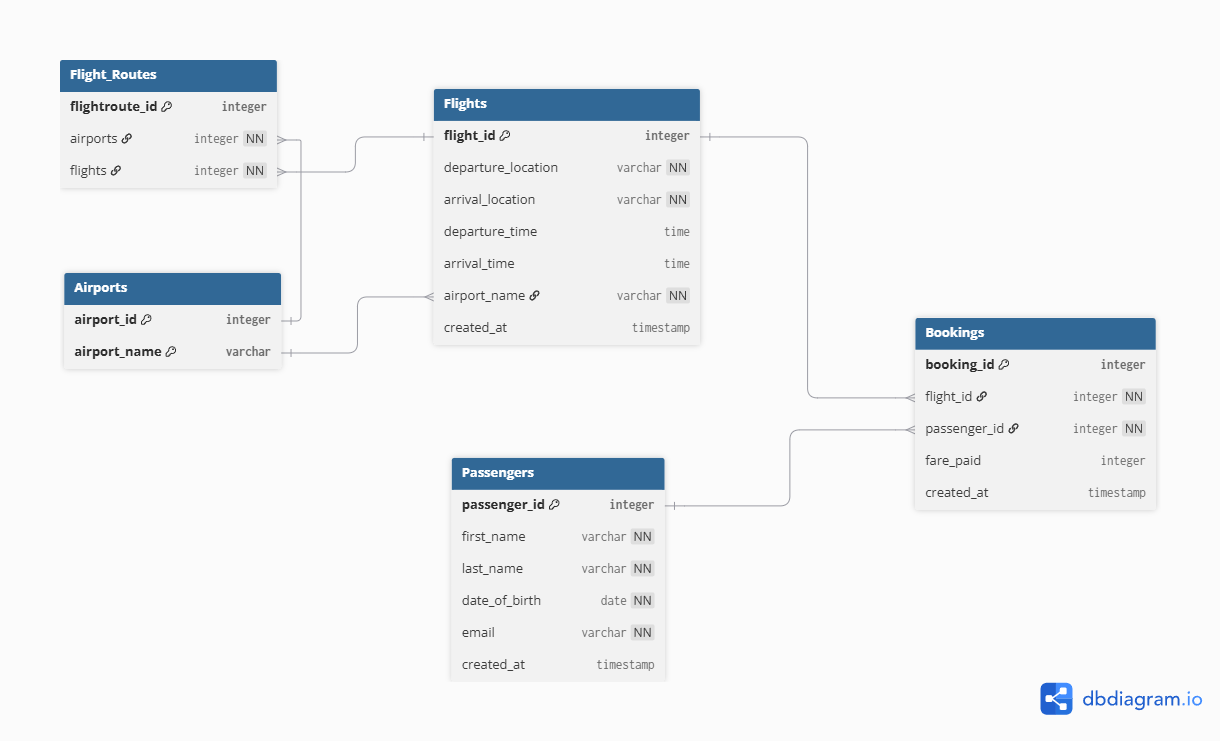
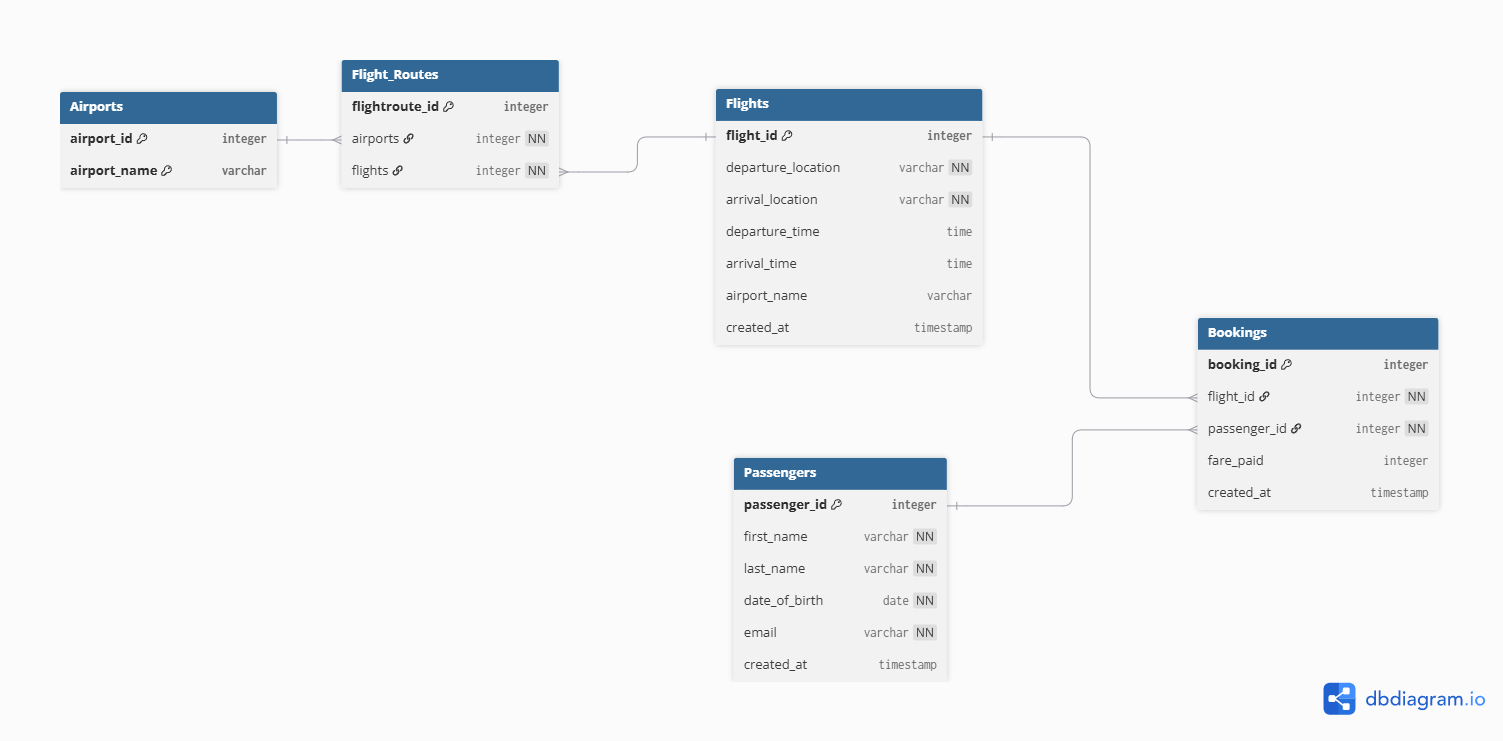
Assignment 1
Assignment 1

diff --git a/analysis/unit1.md b/analysis/unit1.md
@@ -1,0 +1,7 @@
+There is one primary key in each table to represent the rows of data that could be displayed in the foreign keys of other tables. The Passengers table has a primary key of passenger_id, which records each passenger's index. When an ON DELETE command is used on this table against the index, the entire row will be deleted. In this scenario, all of the passenger information will be removed when requested. The information in the Passengers table will be used in other rows such as the Bookings table. To prevent the parent row from being deleted while it is being referenced in other rows, a RESTRICT rule would be enforced for this relation. 
+
+
+The Flights table holds the flight_id primary key that would be used to identify rows in this table that will be used to reference the information of a flight. This value is connected to a variable in the Bookings table as a foreign key to keep a record of the available flights and who is assigned to them. The Bookings table has a primary key of booking_id in the event that someone wants to look up a booking by index. The ON DELETE rule would apply here too, but its only foreign key is booking; using CASCADE could be a better fit.
+
+
+The Airports table has two primary keys for the index of each airport and their abbreviations. The plan for this table is to store the names of applicable airports; then there would be a way to possibly compare the airports in this table to other entries that have the airport abbreviation. Lastly, the Flight_Routes table is a junction table that will be used to add data from the Airports and Flights tables. The only primary key here is the flightroute_id to identify routes based on their index. There could be changes in the future to how these tables are set up as I learn more about relational algebra and databases. There is a basic understanding of where to use primary keys and where foreign keys fall into these tables, but when the time comes to actually compute the information between each table, changes will be made to implement the best practices for this flight booking database.

diff --git a/schema/constraints.md b/schema/constraints.md
@@ -1,0 +1,9 @@
+Write the constraints that protect your data. For each foreign key, state and justify the ON DELETE behavior:
+
+
+Bookings(flight_id, passenger_id): ON DELETE SET NULL 
+The booking history should be preserved if someone wants to look into the history of what someone booked. If passenger data or flight data is removed, the id will be null but the information still stays to show there is no active information in other tables; the remaining information remains if someone looks for it. 
+
+
+Flight_Routes(airports, flights): ON DELETE RESTRICT
+This table is used to show current flight route information for people who are booking. If the flight information is still active in the flights column, the information shouldn’t be removed from the table unless the flight has been canceled from the Flights table. 

diff --git a/schema/schema-definition.md b/schema/schema-definition.md
@@ -1,5 +1,3 @@
-# Task 1.1: all five relation schemas, their attributes, domains, and primary keys. 
-
 Table Passengers {
   passenger_id integer [primary key]
   first_name varchar [not null]
@@ -15,7 +13,7 @@ Table Flights {
   arrival_location varchar [not null]
   departure_time time
   arrival_time time
-  airport_name varchar [not null, ref: > "Airports"."airport_name"]
+  airport_name varchar
   created_at timestamp
 }
 

diff --git a/README.md b/README.md
@@ -1,4 +1,7 @@
 # bu-data_and_algo-P1
 Repository for EX603 Project Assignment 1: Modeling the Platform
+
 Kimani Manning 
+
 This repo holds an airline booking database
+
